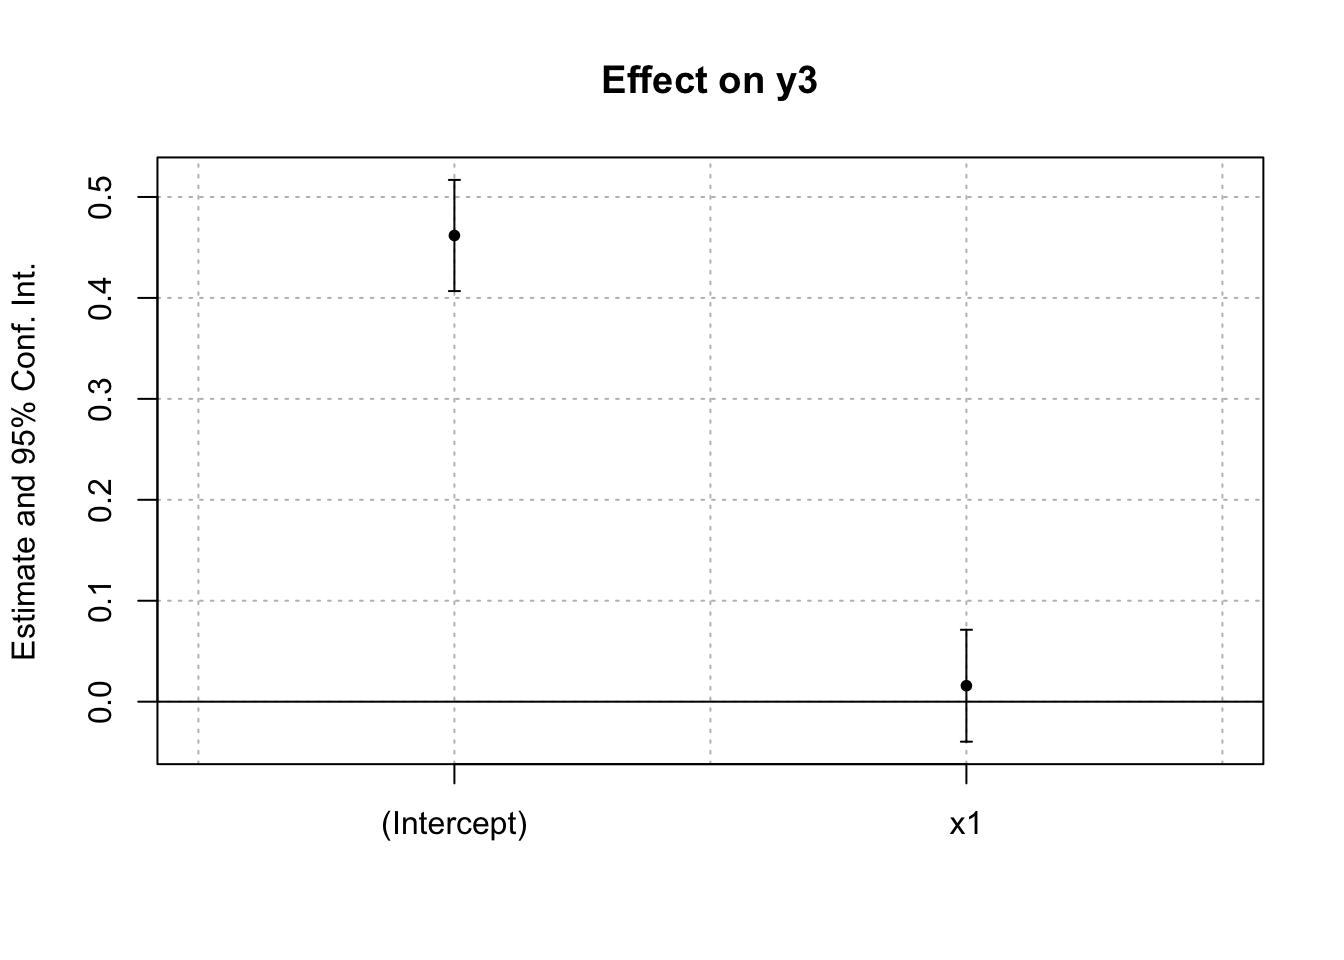
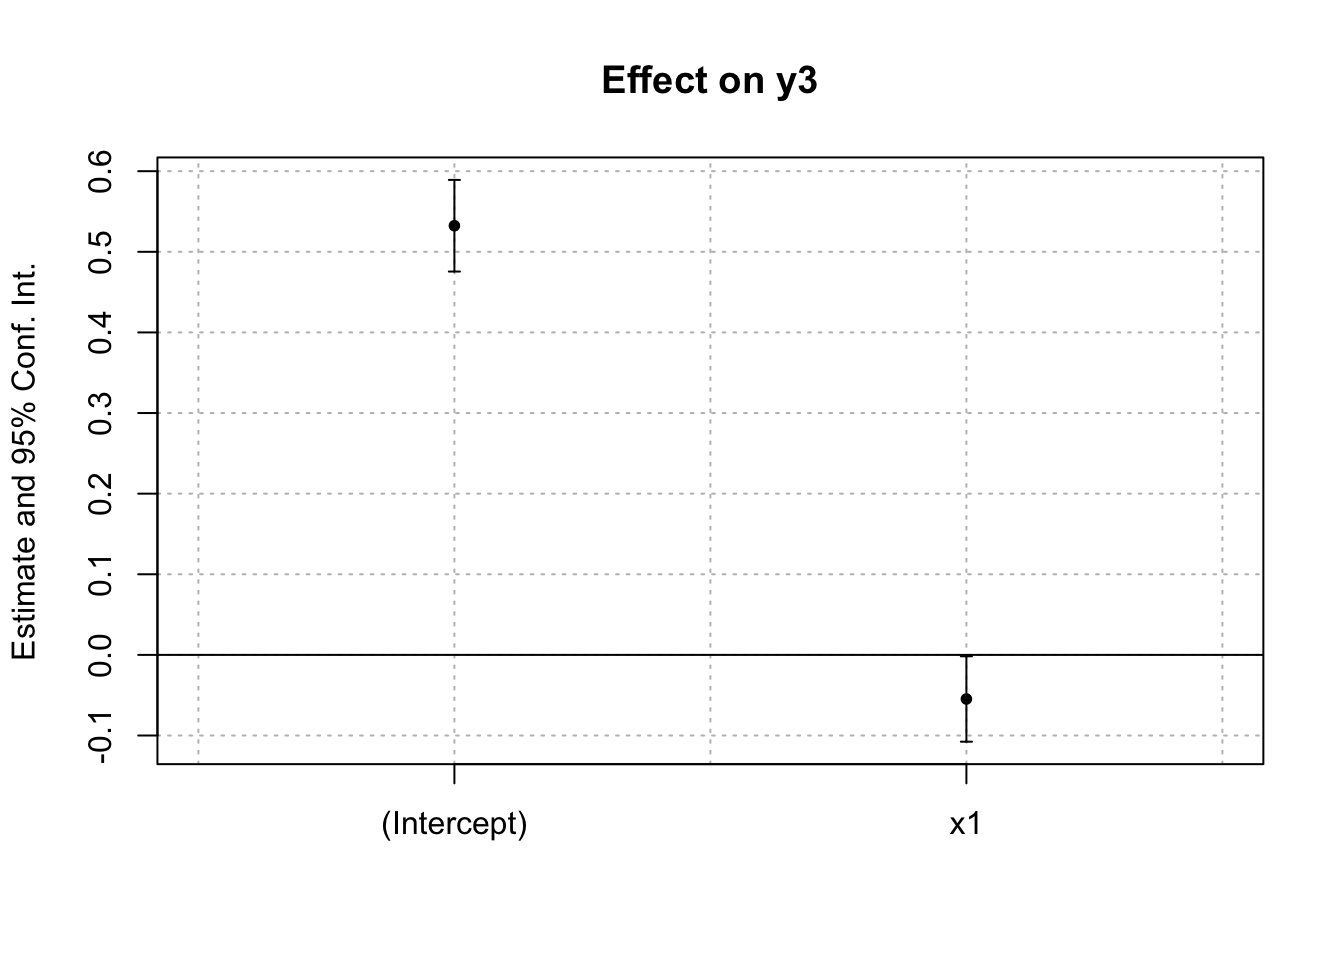
fixing reg loops

diff --git a/docs/looping-reg.html b/docs/looping-reg.html
@@ -330,48 +330,48 @@ for (i in c(1:length(oc_vars))) {
 
 # now we can just pass the results list to etable and get the models side by side
 etable(results)</code></pre>
-<pre><code>##                                model 1                 model 2            model 3
-## Dependent Var.:                     y1                      y2                 y3
-##                                                                                  
-## (Intercept)     6.37e-12*** (1.63e-12)     9.09e-13 (6.87e-13) 0.5784*** (0.0856)
-## x1                 3.000*** (6.37e-13)     5.000*** (3.23e-13)    0.0197 (0.0287)
-## x2                 1.100*** (2.47e-16)    0.5000*** (1.12e-16)  -2.4e-6 (1.09e-5)
-## x3B             4.55e-12*** (1.33e-12)     4.55e-13 (3.45e-13)  -0.1676* (0.0739)
-## x3C                1.82e-12 (1.15e-12)   -1.82e-12** (6.6e-13)   -0.1065 (0.0768)
-## x3D             -5.46e-12** (1.87e-12) -3.64e-12*** (1.02e-12)   -0.1385 (0.0856)
-## _______________ ______________________ _______________________ __________________
-## S.E. type       Heteroskedastici.-rob. Heteroskedasticity-rob. Heteroskedas.-rob.
-## Observations                       100                     100                100
-## R2                                   1                       1            0.05470
-## Adj. R2                              1                       1            0.00442</code></pre>
+<pre><code>##                               model 1                model 2            model 3
+## Dependent Var.:                    y1                     y2                 y3
+##                                                                                
+## (Intercept)     -6.37e-12* (2.77e-12)   -9.09e-13 (7.42e-13) 0.5807*** (0.0786)
+## x1                3.000*** (1.36e-12)    5.000*** (4.05e-13)   -0.0477 (0.0289)
+## x2                1.100*** (5.57e-16)   0.5000*** (1.39e-16) -6.22e-6 (1.04e-5)
+## x3B                9.09e-13 (3.7e-12) 7.28e-12*** (1.25e-12)   -0.0132 (0.0848)
+## x3C               4.55e-12 (3.95e-12) 2.73e-12*** (4.46e-13)    0.0426 (0.0794)
+## x3D               NaNe-Inf (3.68e-12) 6.37e-12*** (1.07e-12)   -0.0944 (0.0885)
+## _______________ _____________________ ______________________ __________________
+## S.E. type       Heteroskedastic.-rob. Heteroskedastici.-rob. Heteroskedas.-rob.
+## Observations                      100                    100                100
+## R2                                  1                      1            0.07265
+## Adj. R2                             1                      1            0.02332</code></pre>
 <pre class="r"><code># we can also extract the estimates one by one
 results[[1]] %&gt;% summary()</code></pre>
 <pre><code>## OLS estimation, Dep. Var.: y1
 ## Observations: 100 
 ## Standard-errors: Heteroskedasticity-robust 
 ##              Estimate Std. Error       t value Pr(&gt;|t|))    
-## (Intercept)  6.37e-12   1.63e-12  3.902800e+00  0.000179 ***
-## x1           3.00e+00   6.37e-13  4.708603e+12 &lt; 2.2e-16 ***
-## x2           1.10e+00   2.47e-16  4.459057e+15 &lt; 2.2e-16 ***
-## x3B          4.55e-12   1.33e-12  3.425200e+00  0.000912 ***
-## x3C          1.82e-12   1.15e-12  1.580700e+00  0.117299    
-## x3D         -5.46e-12   1.87e-12 -2.913600e+00  0.004465 ** 
+## (Intercept) -6.37e-12   2.77e-12 -2.301200e+00   0.02359 *  
+## x1           3.00e+00   1.36e-12  2.198154e+12 &lt; 2.2e-16 ***
+## x2           1.10e+00   5.57e-16  1.973993e+15 &lt; 2.2e-16 ***
+## x3B          9.09e-13   3.70e-12  2.457930e-01  0.806379    
+## x3C          4.55e-12   3.95e-12  1.150700e+00  0.252783    
+## x3D          0.00e+00   3.68e-12  0.000000e+00         1    
 ## ---
 ## Signif. codes:  0 &#39;***&#39; 0.001 &#39;**&#39; 0.01 &#39;*&#39; 0.05 &#39;.&#39; 0.1 &#39; &#39; 1
-## RMSE: 5.427e-12   Adj. R2: 1</code></pre>
+## RMSE: 1.327e-11   Adj. R2: 1</code></pre>
 <pre class="r"><code>results[[1]]$coeftable</code></pre>
-<pre><code>##                  Estimate   Std. Error       t value    Pr(&gt;|t|))
-## (Intercept)  6.366463e-12 1.631235e-12  3.902849e+00 0.0001786682
-## x1           3.000000e+00 6.371317e-13  4.708603e+12 0.0000000000
-## x2           1.100000e+00 2.466890e-16  4.459057e+15 0.0000000000
-## x3B          4.547474e-12 1.327651e-12  3.425202e+00 0.0009123303
-## x3C          1.818989e-12 1.150728e-12  1.580729e+00 0.1172992636
-## x3D         -5.456968e-12 1.872945e-12 -2.913576e+00 0.0044647021
+<pre><code>##                  Estimate   Std. Error       t value  Pr(&gt;|t|))
+## (Intercept) -6.366463e-12 2.766581e-12 -2.301202e+00 0.02358981
+## x1           3.000000e+00 1.364781e-12  2.198154e+12 0.00000000
+## x2           1.100000e+00 5.572461e-16  1.973993e+15 0.00000000
+## x3B          9.094947e-13 3.700252e-12  2.457927e-01 0.80637862
+## x3C          4.547474e-12 3.951989e-12  1.150680e+00 0.25278280
+## x3D          0.000000e+00 3.679068e-12  0.000000e+00 1.00000000
 ## attr(,&quot;type&quot;)
 ## [1] &quot;Heteroskedasticity-robust&quot;</code></pre>
 <pre class="r"><code>coef(results[[1]])</code></pre>
 <pre><code>##   (Intercept)            x1            x2           x3B           x3C           x3D 
-##  6.366463e-12  3.000000e+00  1.100000e+00  4.547474e-12  1.818989e-12 -5.456968e-12</code></pre>
+## -6.366463e-12  3.000000e+00  1.100000e+00  9.094947e-13  4.547474e-12  0.000000e+00</code></pre>
 </div>
 <div id="one-outcome-multiple-sets-of-independent-variables" class="section level2">
 <h2>One outcome, multiple sets of independent variables</h2>
@@ -393,20 +393,20 @@ for (i in c(1:length(fmls))) {
 }
 
 etable(results)</code></pre>
-<pre><code>##                            model 1                model 2                model 3
-## Dependent Var.:                 y1                     y1                     y1
-##                                                                                 
-## (Intercept)     6,229.8*** (300.0) 7.28e-12*** (1.16e-12) 6.37e-12*** (1.63e-12)
-## x1                   46.54 (317.6)    3.000*** (4.02e-13)    3.000*** (6.37e-13)
-## x2                                    1.100*** (1.89e-16)    1.100*** (2.47e-16)
-## x3B                                                       4.55e-12*** (1.33e-12)
-## x3C                                                          1.82e-12 (1.15e-12)
-## x3D                                                       -5.46e-12** (1.87e-12)
-## _______________ __________________ ______________________ ______________________
-## S.E. type       Heteroskedas.-rob. Heteroskedastici.-rob. Heteroskedastici.-rob.
-## Observations                   100                    100                    100
-## R2                         0.00025                      1                      1
-## Adj. R2                   -0.00995                      1                      1</code></pre>
+<pre><code>##                            model 1                model 2               model 3
+## Dependent Var.:                 y1                     y1                    y1
+##                                                                                
+## (Intercept)     5,904.4*** (308.9) -1.45e-11*** (2.4e-12) -6.37e-12* (2.77e-12)
+## x1                  -334.4 (309.3)    3.000*** (7.36e-13)   3.000*** (1.36e-12)
+## x2                                    1.100*** (3.51e-16)   1.100*** (5.57e-16)
+## x3B                                                          9.09e-13 (3.7e-12)
+## x3C                                                         4.55e-12 (3.95e-12)
+## x3D                                                         NaNe-Inf (3.68e-12)
+## _______________ __________________ ______________________ _____________________
+## S.E. type       Heteroskedas.-rob. Heteroskedastici.-rob. Heteroskedastic.-rob.
+## Observations                   100                    100                   100
+## R2                         0.01232                      1                     1
+## Adj. R2                    0.00224                      1                     1</code></pre>
 </div>
 <div id="varying-both" class="section level2">
 <h2>Varying both!</h2>
@@ -427,49 +427,18 @@ for (i in c(1:length(fmls))) {
                         data=dat)
 }
 
-etable(results)</code></pre>
+etable(results[1:4])</code></pre>
 <pre><code>##                            model 1            model 2            model 3                model 4
 ## Dependent Var.:                 y1                 y2                 y3                     y1
 ##                                                                                                
-## (Intercept)     6,229.8*** (300.0) 2,831.7*** (136.4) 0.4618*** (0.0281) 7.28e-12*** (1.16e-12)
-## x1                   46.54 (317.6)      24.79 (144.4)    0.0158 (0.0283)    3.000*** (4.02e-13)
-## x2                                                                          1.100*** (1.89e-16)
-## x3B                                                                                            
-## x3C                                                                                            
-## x3D                                                                                            
+## (Intercept)     5,904.4*** (308.9) 2,683.8*** (140.4) 0.5323*** (0.0290) -1.45e-11*** (2.4e-12)
+## x1                  -334.4 (309.3)     -148.4 (140.6)  -0.0547* (0.0270)    3.000*** (7.36e-13)
+## x2                                                                          1.100*** (3.51e-16)
 ## _______________ __________________ __________________ __________________ ______________________
 ## S.E. type       Heteroskedas.-rob. Heteroskedas.-rob. Heteroskedas.-rob. Heteroskedastici.-rob.
 ## Observations                   100                100                100                    100
-## R2                         0.00025            0.00034            0.00329                      1
-## Adj. R2                   -0.00995           -0.00986           -0.00688                      1
-##                                model 5            model 6                model 7                 model 8
-## Dependent Var.:                     y2                 y3                     y1                      y2
-##                                                                                                         
-## (Intercept)     1.82e-12*** (3.09e-13) 0.4627*** (0.0670) 6.37e-12*** (1.63e-12)     9.09e-13 (6.87e-13)
-## x1                 5.000*** (1.42e-13)    0.0158 (0.0285)    3.000*** (6.37e-13)     5.000*** (3.23e-13)
-## x2                0.5000*** (6.41e-17)  -1.53e-7 (1.1e-5)    1.100*** (2.47e-16)    0.5000*** (1.12e-16)
-## x3B                                                       4.55e-12*** (1.33e-12)     4.55e-13 (3.45e-13)
-## x3C                                                          1.82e-12 (1.15e-12)   -1.82e-12** (6.6e-13)
-## x3D                                                       -5.46e-12** (1.87e-12) -3.64e-12*** (1.02e-12)
-## _______________ ______________________ __________________ ______________________ _______________________
-## S.E. type       Heteroskedastici.-rob. Heteroskedas.-rob. Heteroskedastici.-rob. Heteroskedasticity-rob.
-## Observations                       100                100                    100                     100
-## R2                                   1            0.00329                      1                       1
-## Adj. R2                              1           -0.01726                      1                       1
-##                            model 9
-## Dependent Var.:                 y3
-##                                   
-## (Intercept)     0.5784*** (0.0856)
-## x1                 0.0197 (0.0287)
-## x2               -2.4e-6 (1.09e-5)
-## x3B              -0.1676* (0.0739)
-## x3C               -0.1065 (0.0768)
-## x3D               -0.1385 (0.0856)
-## _______________ __________________
-## S.E. type       Heteroskedas.-rob.
-## Observations                   100
-## R2                         0.05470
-## Adj. R2                    0.00442</code></pre>
+## R2                         0.01232            0.01175            0.03644                      1
+## Adj. R2                    0.00224            0.00166            0.02661                      1</code></pre>
 <pre class="r"><code># now all 9 regressions get done!</code></pre>
 </div>
 <div id="bonus-forest-plotting" class="section level2">
@@ -482,15 +451,20 @@ plotdat &lt;- list()
 for (i in c(1:length(results))) {
   plotdat[[i]] &lt;- coefplot(results[[i]])$prms %&gt;%
     data.frame() %&gt;%
-    mutate(oc=as.character(results[[i]]$fml)[2])
+    mutate(oc=as.character(results[[i]]$fml)[2],
+           model=i)
 }</code></pre>
 <pre class="r"><code>bind_rows(plotdat) %&gt;% 
-  filter(estimate_names!=&quot;(Intercept)&quot;) %&gt;%
+  filter(estimate_names!=&quot;(Intercept)&quot; &amp;
+           oc==&quot;y3&quot;) %&gt;%
   ggplot() +
   geom_pointrange(aes(x=estimate,y=estimate_names,
-                      xmin=ci_low,xmax=ci_high),
-                  position = position_dodge(width = 1)) +
-  facet_wrap(~oc) +
+                      xmin=ci_low,xmax=ci_high,
+                      color=factor(model)),
+                  position = position_dodge(width = 1),
+                  show.legend = F) +
+  facet_wrap(~oc+model) +
+  labs(y=&quot;Covariate&quot;,title=&quot;Forest Plot, 3 models (outcome y3)&quot;) +
   theme_bw()</code></pre>
 <p><img src="looping-reg_files/figure-html/forest-plot-1.png" width="672" /></p>
 </div>
